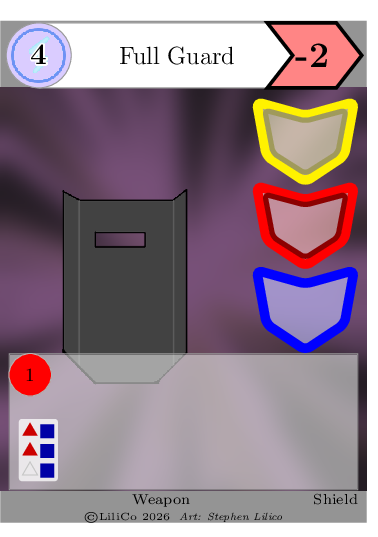
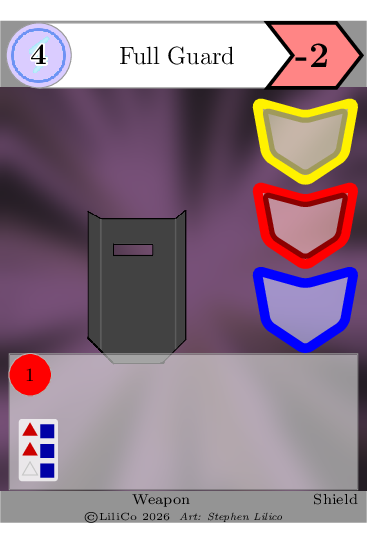
Height-fit full-card art so it isn't clipped
The main art (and foreground) is now height-fitted to the art region
via max height alongside the full-width target, so portrait art is no
longer cropped top/bottom. The background layer still fills the full
card width as a cover fill.

Regenerated all card, rules-reference and TTS deck/frame images.

Changed region(s): [[0.1455, 0.3575, 0.4947, 0.7151]]

diff --git a/generateCards.py b/generateCards.py
@@ -775,21 +775,22 @@ def make_card_from_row(row, card_type, group_capability=None, annotate=False, an
         art_top_y = NAME_CY - (NAME_H_CM / 2) / card_scale
         art_bot_y = RULES_BOTTOM
         art_cy_full = (art_top_y + art_bot_y) / 2
+        art_h_full = (art_top_y - art_bot_y) * card_scale  # region height in cm
         card_left = 4 - (6.2 / card_scale) / 2
         card_right = 4 + (6.2 / card_scale) / 2
         card_text += "\\begin{scope}\n"
         card_text += (f"\\clip ({card_left:.3f}, {art_bot_y:.3f}) rectangle "
                       f"({card_right:.3f}, {art_top_y:.3f});\n")
-        # background layer scaled to fill the whole card width (clipped by the scope)
+        # background layer fills the whole card width (cover; cropped by the scope)
         if row.get("BackgroundLayer"):
             card_text += (f'\\node at (4,{art_cy_full:.3f}){{\\includegraphics[width=6.2cm,'
                           ' keepaspectratio]{' + images_folder + row["BackgroundLayer"] + '}};\n')
-        # the art itself fills the full card width, cropped to the art region
+        # the art itself is height-fitted to the region so it is never cut off
         card_text += (f'\\node at (4,{art_cy_full:.3f}){{\\includegraphics[width=6.2cm,'
-                      ' keepaspectratio]{' + images_folder + row["CardImg"] + '}};\n')
+                      f' max height={art_h_full:.2f}cm, keepaspectratio]{{' + images_folder + row["CardImg"] + '}};\n')
         if row.get("ForegroundImg"):
             card_text += (f'\\node at (4,{art_cy_full:.3f}){{\\includegraphics[width=6.2cm,'
-                          ' keepaspectratio]{' + images_folder + row["ForegroundImg"] + '}};\n')
+                          f' max height={art_h_full:.2f}cm, keepaspectratio]{{' + images_folder + row["ForegroundImg"] + '}};\n')
         card_text += "\\end{scope}\n"
 
         # --- name plate with overlapping initiative circle + movement chevron -
